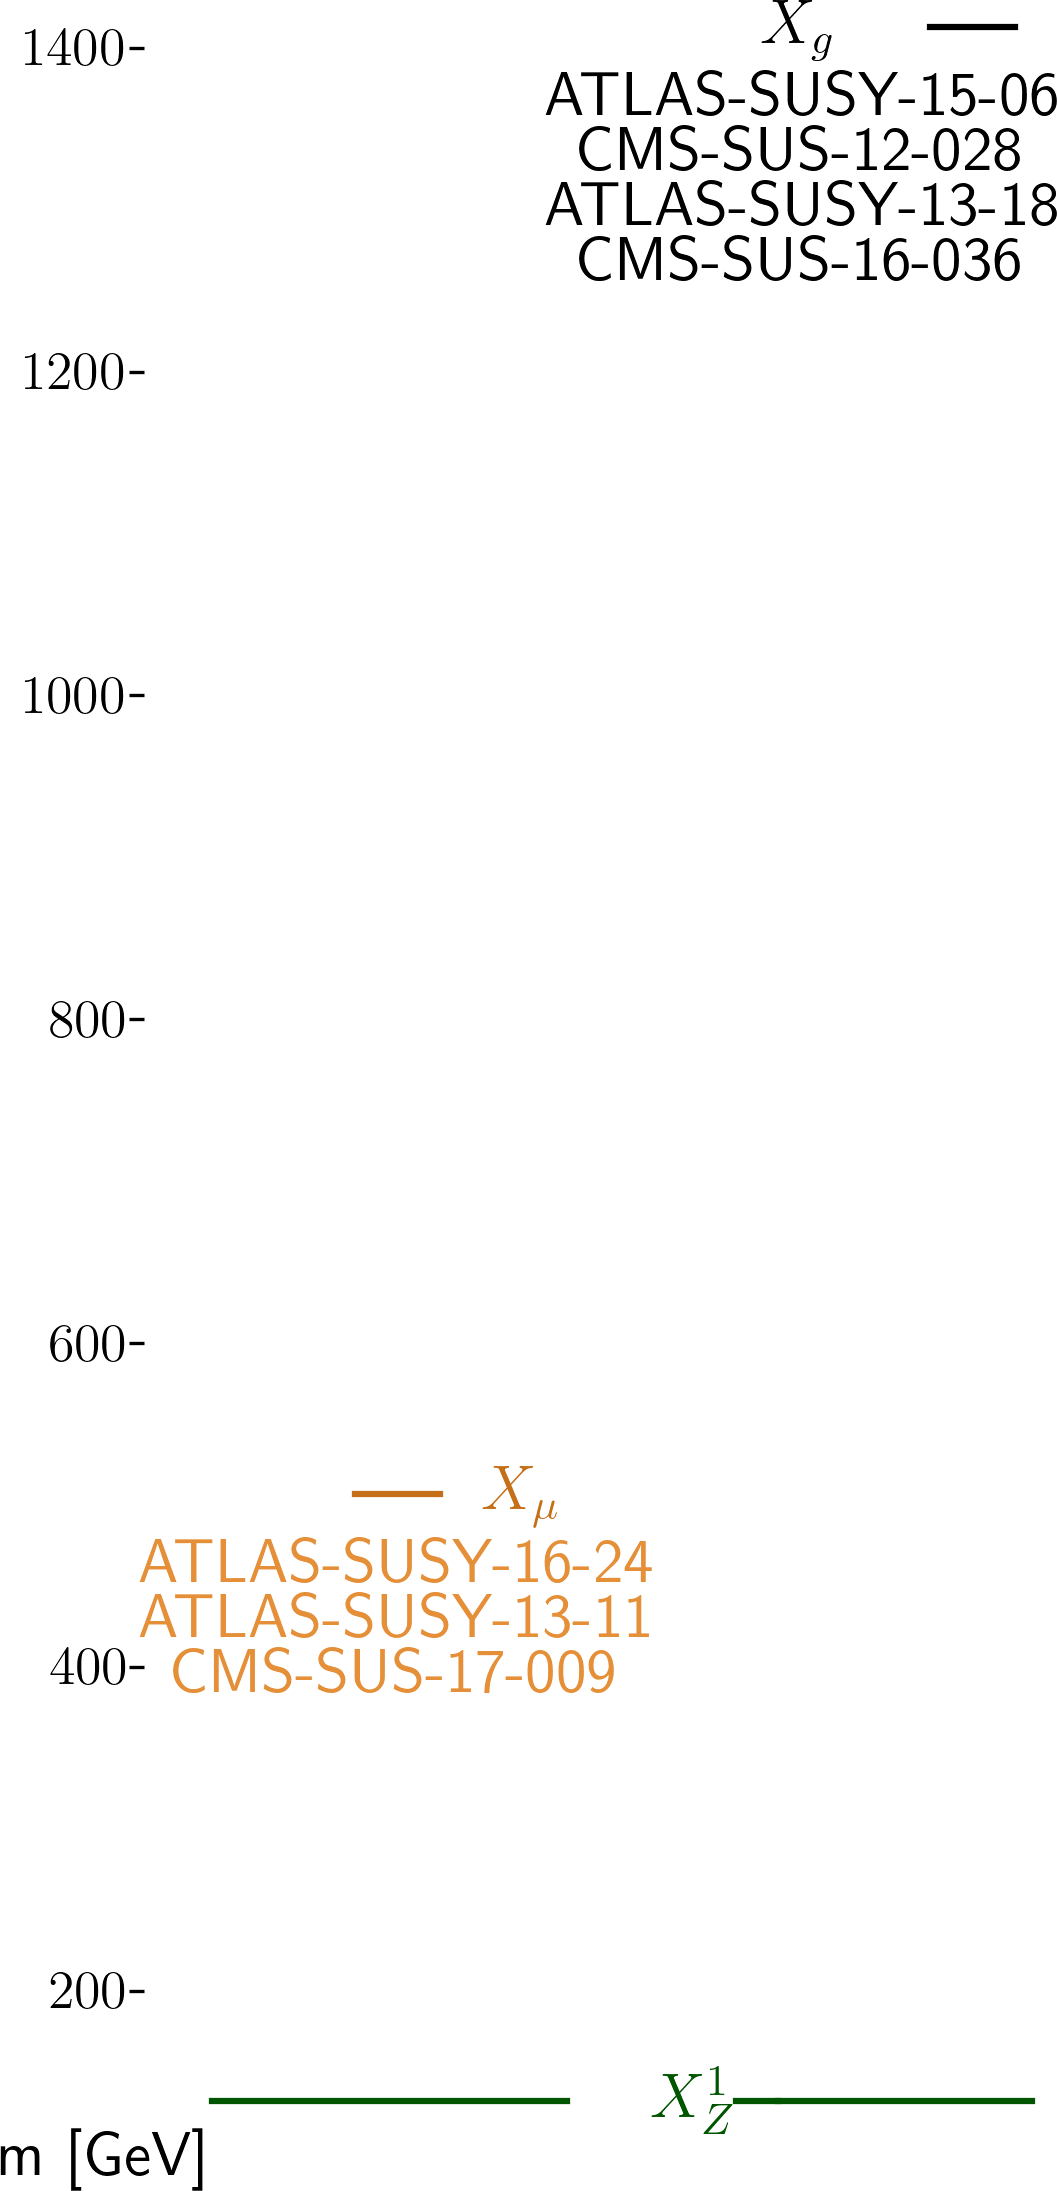
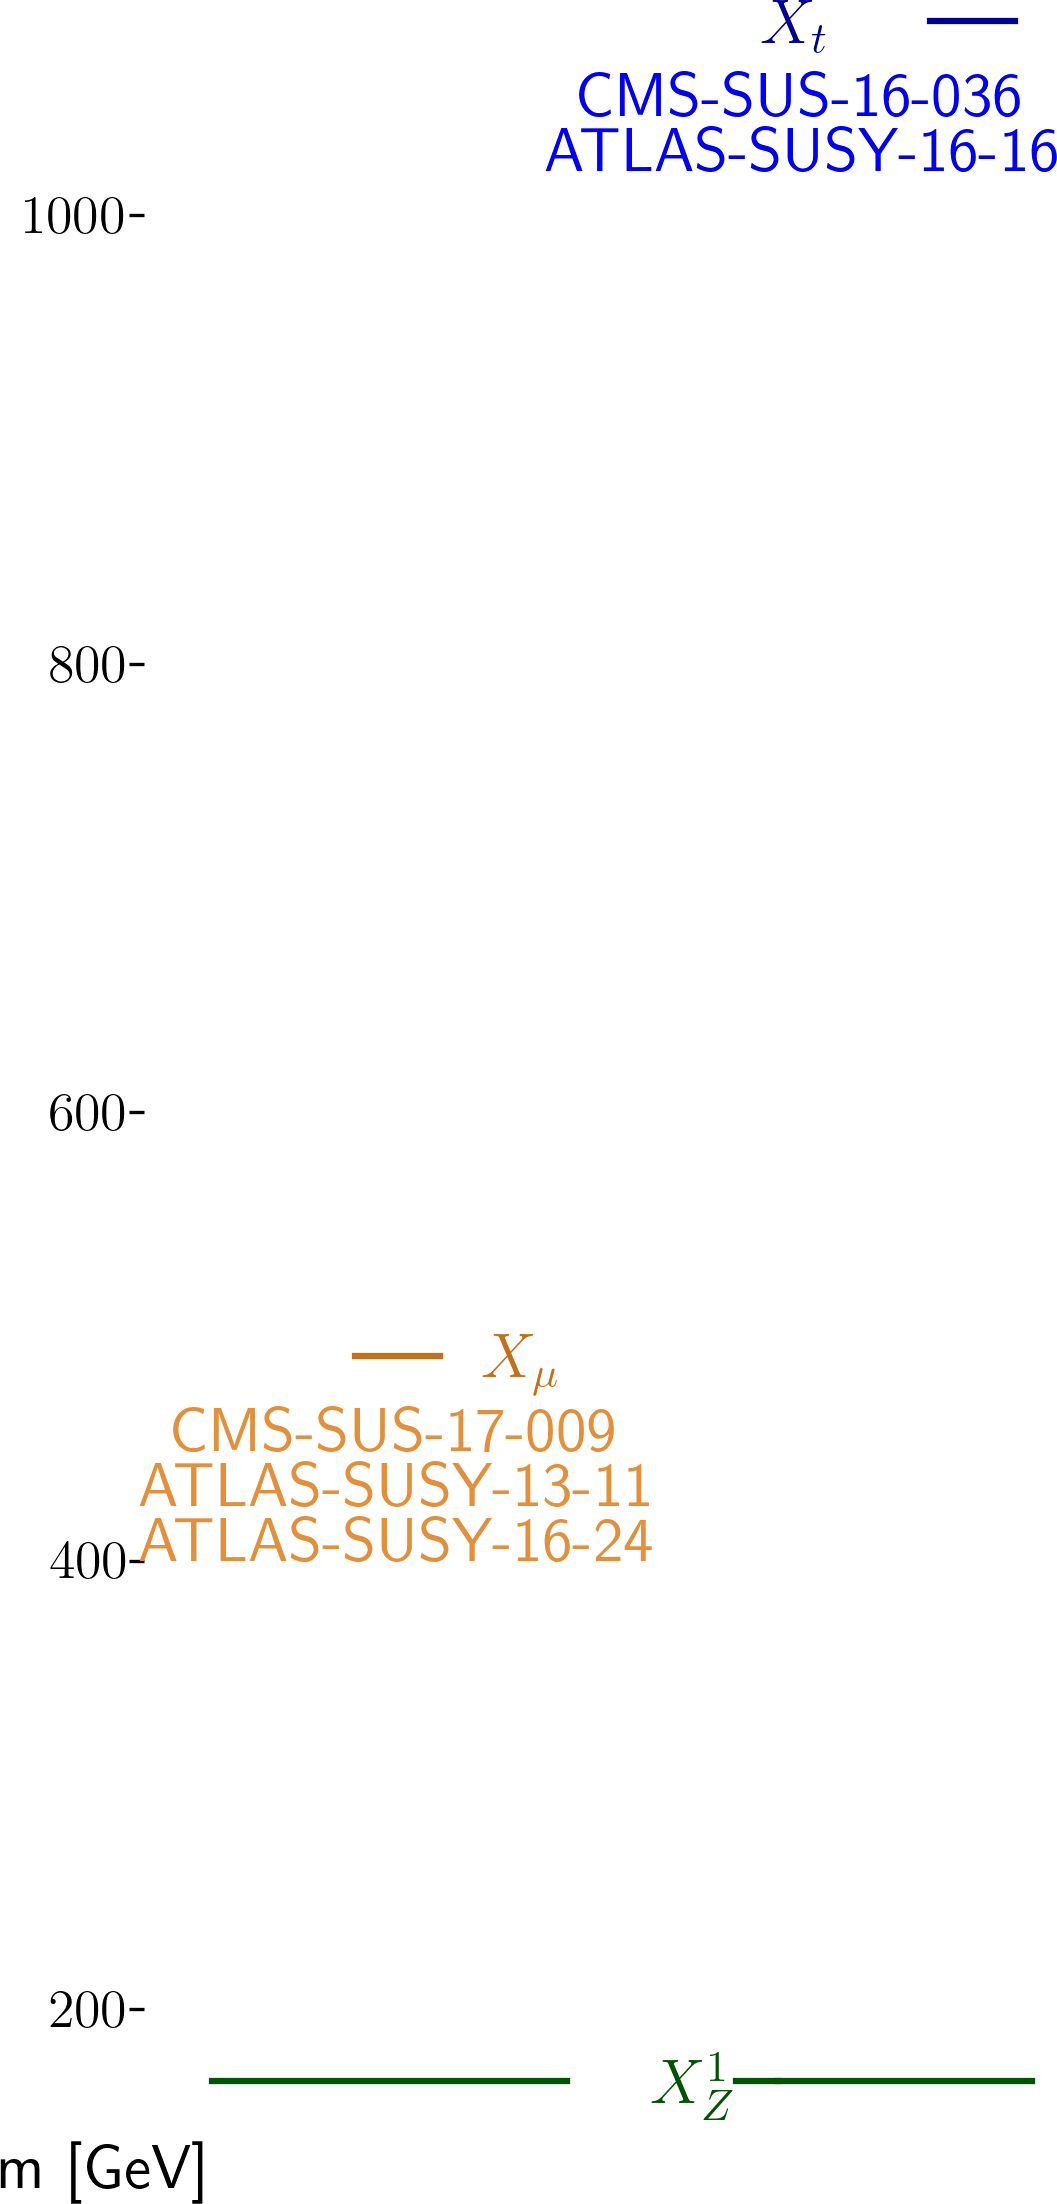
automated update by plotHiscore.py to /scratch-cbe/users/wolfgan.waltenberger/git/smodels.github.io/protomodels/latest/

diff --git a/protomodels/latest/index.html b/protomodels/latest/index.html
@@ -1,32 +1,30 @@
 <html>
 <body>
 <center>
-<table><td><h1>Current best protomodel: K=17.94</h1><td><img height=60px src=https://smodels.github.io/pics/banner.png></table>
+<table><td><h1>Current best protomodel: K=16.24</h1><td><img height=60px src=https://smodels.github.io/pics/banner.png></table>
 </center>
-<b><a href=./hiscore.slha>ProtoModel</a> <a href=./pmodel.py>(dict)</a> produced with <a href=https://smodels.github.io/docs/Validation124signal14>database v1.2.4signal14</a>, combination strategy <a href=./matrix_aggressive.png>aggressive</a> in walker 37 step 648.</b> K plots for: <a href=./M1000022.png?13498461>X<sub>Z</sub><sup>1</sup></a>, <a href=./M1000021.png?13498461>X<sub>g</sub></a>, <a href=./M1000013.png?13498461>X<sub>&mu;</sub></a>. HPD plots for: <a href=./llhd1000021.png?13498461>X<sub>g</sub></a>, <a href=./llhd1000013.png?13498461>X<sub>&mu;</sub></a>. SSM plots for: <a href=./ssm_1000021_1000021.png?13498461>(X<sub>g</sub>,X<sub>g</sub>)</a><br>
+<b><a href=./hiscore.slha>ProtoModel</a> <a href=./pmodel.py>(dict)</a> produced with <a href=https://smodels.github.io/docs/Validation124signal15>database v1.2.4signal15</a>, combination strategy <a href=./matrix_aggressive.png>aggressive</a> in walker 31 step 912.</b> K plots for: <a href=./M1000022.png?13498706>X<sub>Z</sub><sup>1</sup></a>, <a href=./M1000006.png?13498706>X<sub>t</sub></a>, <a href=./M1000013.png?13498706>X<sub>&mu;</sub></a>. HPD plots for: <a href=./llhd1000006.png?13498706>X<sub>t</sub></a>, <a href=./llhd1000013.png?13498706>X<sub>&mu;</sub></a>. SSM plots for: <a href=./ssm_-1000006_1000006.png?13498706>(x&#772;<sub>t</sub>,X<sub>t</sub>)</a><br>
 <table width=80%>
 <tr><td>
-<br><b>46 predictions available. Highest r values are:</b><br><ul>
-<li><a href=http://cms-results.web.cern.ch/cms-results/public-results/publications/SUS-19-006/index.html>CMS-SUS-19-006</a>:T1 r=1.30, r<sub>exp</sub>=1.88<br>
-<li><a href=https://atlas.web.cern.ch/Atlas/GROUPS/PHYSICS/PAPERS/SUSY-2016-07/>ATLAS-SUSY-2016-07</a>:TGQ,T1,T2 r=1.17, r<sub>exp</sub>=1.51<br>
-<li><a href=http://cms-results.web.cern.ch/cms-results/public-results/publications/SUS-19-006/index.html>CMS-SUS-19-006</a>:T1tttt r=1.05, r<sub>exp</sub>=1.62<br>
-<li><a href=http://cms-results.web.cern.ch/cms-results/public-results/publications/SUS-16-033/index.html>CMS-SUS-16-033</a>:T1 r=0.94, r<sub>exp</sub>=1.18<br>
-<li><a href=http://cms-results.web.cern.ch/cms-results/public-results/publications/SUS-16-033/index.html>CMS-SUS-16-033</a>:T1,TGQ,T1tttt,T2,T1bbbb r=0.86, r<sub>exp</sub>=1.02<br>
+<br><b>18 predictions available. Highest r values are:</b><br><ul>
+<li><a href=http://cms-results.web.cern.ch/cms-results/public-results/publications/SUS-16-051/index.html>CMS-SUS-16-051</a>:T2tt r=1.30, r<sub>exp</sub>=0.62<br>
+<li><a href=http://cms-results.web.cern.ch/cms-results/public-results/publications/SUS-19-006/index.html>CMS-SUS-19-006</a>:T2tt r=0.97, r<sub>exp</sub>=1.17<br>
+<li><a href=https://atlas.web.cern.ch/Atlas/GROUPS/PHYSICS/PAPERS/SUSY-2018-32/>ATLAS-SUSY-2018-32</a>:TSlepSlep r=0.76, r<sub>exp</sub>=N/A<br>
+<li><a href=http://cms-results.web.cern.ch/cms-results/public-results/publications/SUS-16-050/index.html>CMS-SUS-16-050</a>:T2tt r=0.65, r<sub>exp</sub>=1.04<br>
+<li><a href=http://cms-results.web.cern.ch/cms-results/public-results/publications/SUS-16-049/index.html>CMS-SUS-16-049</a>:T2tt r=0.59, r<sub>exp</sub>=1.04<br>
 </ul>
 <td><br><b>K values without analyses: (contribution)</b><br>
 <ul>
-<li> <a href=http://atlas.web.cern.ch/Atlas/GROUPS/PHYSICS/PAPERS/SUSY-2015-06/>ATLAS-SUSY-2015-06</a>: -0.93 (14%)
-<li> <a href=https://cms-results.web.cern.ch/cms-results/public-results/publications/SUS-17-009/>CMS-SUS-17-009</a>: -1.35 (14%)
-<li> <a href=http://cms-results.web.cern.ch/cms-results/public-results/publications/SUS-16-036/index.html>CMS-SUS-16-036</a>: -1.35 (14%)
-<li> <a href=https://twiki.cern.ch/twiki/bin/view/CMSPublic/PhysicsResultsSUS12028>CMS-SUS-12-028</a>: -1.35 (14%)
-<li> <a href=https://atlas.web.cern.ch/Atlas/GROUPS/PHYSICS/PAPERS/SUSY-2013-18/>ATLAS-SUSY-2013-18</a>: -1.36 (14%)
-<li> <a href=https://atlas.web.cern.ch/Atlas/GROUPS/PHYSICS/PAPERS/SUSY-2013-11/>ATLAS-SUSY-2013-11</a>: -1.54 (14%)
-<li> <a href=https://atlas.web.cern.ch/Atlas/GROUPS/PHYSICS/PAPERS/SUSY-2016-24/>ATLAS-SUSY-2016-24</a>: -5.48 (17%)
-<td><img width=600px src=./texdoc.png?1606498461>
-<br><font size=-1>Last updated: Fri Nov 27 18:34:21 2020</font>
+<li> <a href=http://cms-results.web.cern.ch/cms-results/public-results/publications/SUS-16-036/index.html>CMS-SUS-16-036</a>: 2.80 (18%)
+<li> <a href=https://cms-results.web.cern.ch/cms-results/public-results/publications/SUS-17-009/>CMS-SUS-17-009</a>: 2.80 (18%)
+<li> <a href=https://atlas.web.cern.ch/Atlas/GROUPS/PHYSICS/PAPERS/SUSY-2013-11/>ATLAS-SUSY-2013-11</a>: 2.61 (19%)
+<li> <a href=https://atlas.web.cern.ch/Atlas/GROUPS/PHYSICS/PAPERS/SUSY-2016-16/>ATLAS-SUSY-2016-16</a>: 0.28 (22%)
+<li> <a href=https://atlas.web.cern.ch/Atlas/GROUPS/PHYSICS/PAPERS/SUSY-2016-24/>ATLAS-SUSY-2016-24</a>: -0.57 (23%)
+<td><img width=600px src=./texdoc.png?1606498706>
+<br><font size=-1>Last updated: Fri Nov 27 18:38:26 2020</font>
 </table><table style="width:80%">
-<td width=45%><img height=580px src=./ruler.png?1606498461><td width=55%><img height=380px src=./decays.png?1606498461>
-<font size=-3><iframe type="text/html" height="220px" width="100%s" frameborder="0" src="./rawnumbers.html?1606498461"></iframe></font>
+<td width=45%><img height=580px src=./ruler.png?1606498706><td width=55%><img height=380px src=./decays.png?1606498706>
+<font size=-3><iframe type="text/html" height="220px" width="100%s" frameborder="0" src="./rawnumbers.html?1606498706"></iframe></font>
 </table>
 </body>
 </html>

diff --git a/protomodels/latest/rawnumbers.html b/protomodels/latest/rawnumbers.html
@@ -1,11 +1,9 @@
 <table>
 <tr><th>Analysis Name</th><th>Type</th><th>Dataset</th><th>Topos</th><th>Observed</th><th>Expected</th><th>Approx &sigma;</th><th>Particles</th><th>Signal</th>
 </tr>
-<tr><td><a href=https://atlas.web.cern.ch/Atlas/GROUPS/PHYSICS/PAPERS/SUSY-2013-11/>ATLAS-SUSY-2013-11</a></td><td>em</td> <td>mT2-90-SF</td><td>TSlepSlep</td><td>49</td><td>38.2 +/- 5.1</td><td style="text-align:right">1.3 &sigma;</td><td style="text-align:right">X<sub>&mu;</sub></td><td style="text-align:right">3</td></tr>
-<tr><td><a href=https://atlas.web.cern.ch/Atlas/GROUPS/PHYSICS/PAPERS/SUSY-2013-18/>ATLAS-SUSY-2013-18</a></td><td>em</td> <td>SR-0l-4j-B</td><td>T1bbbb</td><td>2</td><td>1.3 +/- 0.9</td><td style="text-align:right">0.5 &sigma;</td><td style="text-align:right">X<sub>g</sub></td><td style="text-align:right">-</td></tr>
-<tr><td><a href=http://atlas.web.cern.ch/Atlas/GROUPS/PHYSICS/PAPERS/SUSY-2015-06/>ATLAS-SUSY-2015-06</a></td><td>em</td> <td>SR4jt</td><td>T1, T2</td><td>4</td><td>4.1 +/- 1.1</td><td style="text-align:right">-0.0 &sigma;</td><td style="text-align:right">X<sub>g</sub></td><td style="text-align:right">0</td></tr>
-<tr><td><a href=https://atlas.web.cern.ch/Atlas/GROUPS/PHYSICS/PAPERS/SUSY-2016-24/>ATLAS-SUSY-2016-24</a></td><td>em</td> <td>SR2-SF-tight</td><td>TSmuSmu</td><td>20</td><td>9.8 +/- 2.9</td><td style="text-align:right">2.4 &sigma;</td><td style="text-align:right">X<sub>&mu;</sub></td><td style="text-align:right">7</td></tr>
-<tr><td><a href=https://twiki.cern.ch/twiki/bin/view/CMSPublic/PhysicsResultsSUS12028>CMS-SUS-12-028</a></td><td>ul</td> <td>-</td><td>T1</td><td> 10.9 fb </td><td> 10.1 fb</td><td style="text-align:right">0.2 &sigma;</td><td style="text-align:right">X<sub>g</sub></td><td style="text-align:right">-</td></tr>
-<tr><td><a href=http://cms-results.web.cern.ch/cms-results/public-results/publications/SUS-16-036/index.html>CMS-SUS-16-036</a></td><td>ul</td> <td>-</td><td>T1</td><td> 8.5 fb </td><td> 3.3 fb</td><td style="text-align:right">3.0 &sigma;</td><td style="text-align:right">X<sub>g</sub></td><td style="text-align:right">-</td></tr>
-<tr><td><a href=https://cms-results.web.cern.ch/cms-results/public-results/publications/SUS-17-009/>CMS-SUS-17-009</a></td><td>ul</td> <td>-</td><td>TSlepSlep</td><td> 3.7 fb </td><td> 1.4 fb</td><td style="text-align:right">3.1 &sigma;</td><td style="text-align:right">X<sub>&mu;</sub></td><td style="text-align:right">2.27 fb</td></tr>
+<tr><td><a href=https://atlas.web.cern.ch/Atlas/GROUPS/PHYSICS/PAPERS/SUSY-2013-11/>ATLAS-SUSY-2013-11</a></td><td>em</td> <td>mT2-120-SF</td><td>TSlepSlep</td><td>11</td><td>8.9 +/- 2.1</td><td style="text-align:right">0.6 &sigma;</td><td style="text-align:right">X<sub>&mu;</sub></td><td style="text-align:right">3</td></tr>
+<tr><td><a href=https://atlas.web.cern.ch/Atlas/GROUPS/PHYSICS/PAPERS/SUSY-2016-16/>ATLAS-SUSY-2016-16</a></td><td>em</td> <td>tN_high</td><td>T2tt</td><td>8</td><td>3.8 +/- 1</td><td style="text-align:right">1.9 &sigma;</td><td style="text-align:right">X<sub>t</sub></td><td style="text-align:right">2</td></tr>
+<tr><td><a href=https://atlas.web.cern.ch/Atlas/GROUPS/PHYSICS/PAPERS/SUSY-2016-24/>ATLAS-SUSY-2016-24</a></td><td>em</td> <td>SR2-SF-tight</td><td>TSmuSmu</td><td>19</td><td>9.8 +/- 2.9</td><td style="text-align:right">2.2 &sigma;</td><td style="text-align:right">X<sub>&mu;</sub></td><td style="text-align:right">14</td></tr>
+<tr><td><a href=http://cms-results.web.cern.ch/cms-results/public-results/publications/SUS-16-036/index.html>CMS-SUS-16-036</a></td><td>ul</td> <td>-</td><td>T2tt</td><td> 9.7 fb </td><td> 4.8 fb</td><td style="text-align:right">2.0 &sigma;</td><td style="text-align:right">X<sub>t</sub></td><td style="text-align:right">2.32 fb</td></tr>
+<tr><td><a href=https://cms-results.web.cern.ch/cms-results/public-results/publications/SUS-17-009/>CMS-SUS-17-009</a></td><td>ul</td> <td>-</td><td>TSlepSlep</td><td> 3.8 fb </td><td> 1.6 fb</td><td style="text-align:right">2.8 &sigma;</td><td style="text-align:right">X<sub>&mu;</sub></td><td style="text-align:right">2.27 fb</td></tr>
 </table>

diff --git a/protomodels/latest/pmodel.py b/protomodels/latest/pmodel.py
@@ -1,1 +1,1 @@
-{'masses': {1000022: 121.789, 1000013: 496.785, 1000021: 1402.788}, 'ssmultipliers': {(1000022, 1000022): 0.132, (1000013, 1000013): 11.776, (-1000013, 1000013): 11.776, (-1000013, -1000013): 11.776, (1000013, 1000022): 11.776, (-1000013, 1000022): 11.776, (1000021, 1000021): 0.637, (1000021, 1000022): 0.751, (1000013, 1000021): 0.751, (-1000013, 1000021): 0.751}, 'decays': {1000022: {}, 1000013: {(1000022, 13): 1.0}, 1000021: {(1000022, 6): 0.29, (1000022, 5): 0.137, (1000022, 21): 0.098, (1000022, 1): 0.021, (1000022, 4): 0.455}}, 'timestamp': 'Fri Nov 27 18:34:12 2020', 'Z': 4.841, 'K': 17.939, 'walkerid': 37, 'step': 648, 'codever': '1.0', 'dbver': '1.2.4signal14'}
+{'masses': {1000022: 158.043, 1000013: 481.283, 1000006: 1076.663}, 'ssmultipliers': {(1000022, 1000022): 0.053, (1000013, 1000013): 1.711, (-1000013, 1000013): 11.671, (-1000013, -1000013): 13.048, (1000013, 1000022): 13.048, (-1000013, 1000022): 13.048, (1000006, 1000006): 0.854, (-1000006, 1000006): 0.854, (-1000006, -1000006): 0.854, (1000006, 1000022): 0.854, (-1000006, 1000022): 0.854, (1000006, 1000013): 0.909, (-1000006, 1000013): 0.909, (-1000013, 1000006): 0.909, (-1000013, -1000006): 0.909}, 'decays': {1000022: {}, 1000013: {(1000022, 13): 1.0}, 1000006: {(1000022, 6): 1.0}}, 'timestamp': 'Fri Nov 27 18:38:21 2020', 'Z': 4.443, 'K': 16.244, 'walkerid': 31, 'step': 912, 'codever': '1.0', 'dbver': '1.2.4signal15'}
